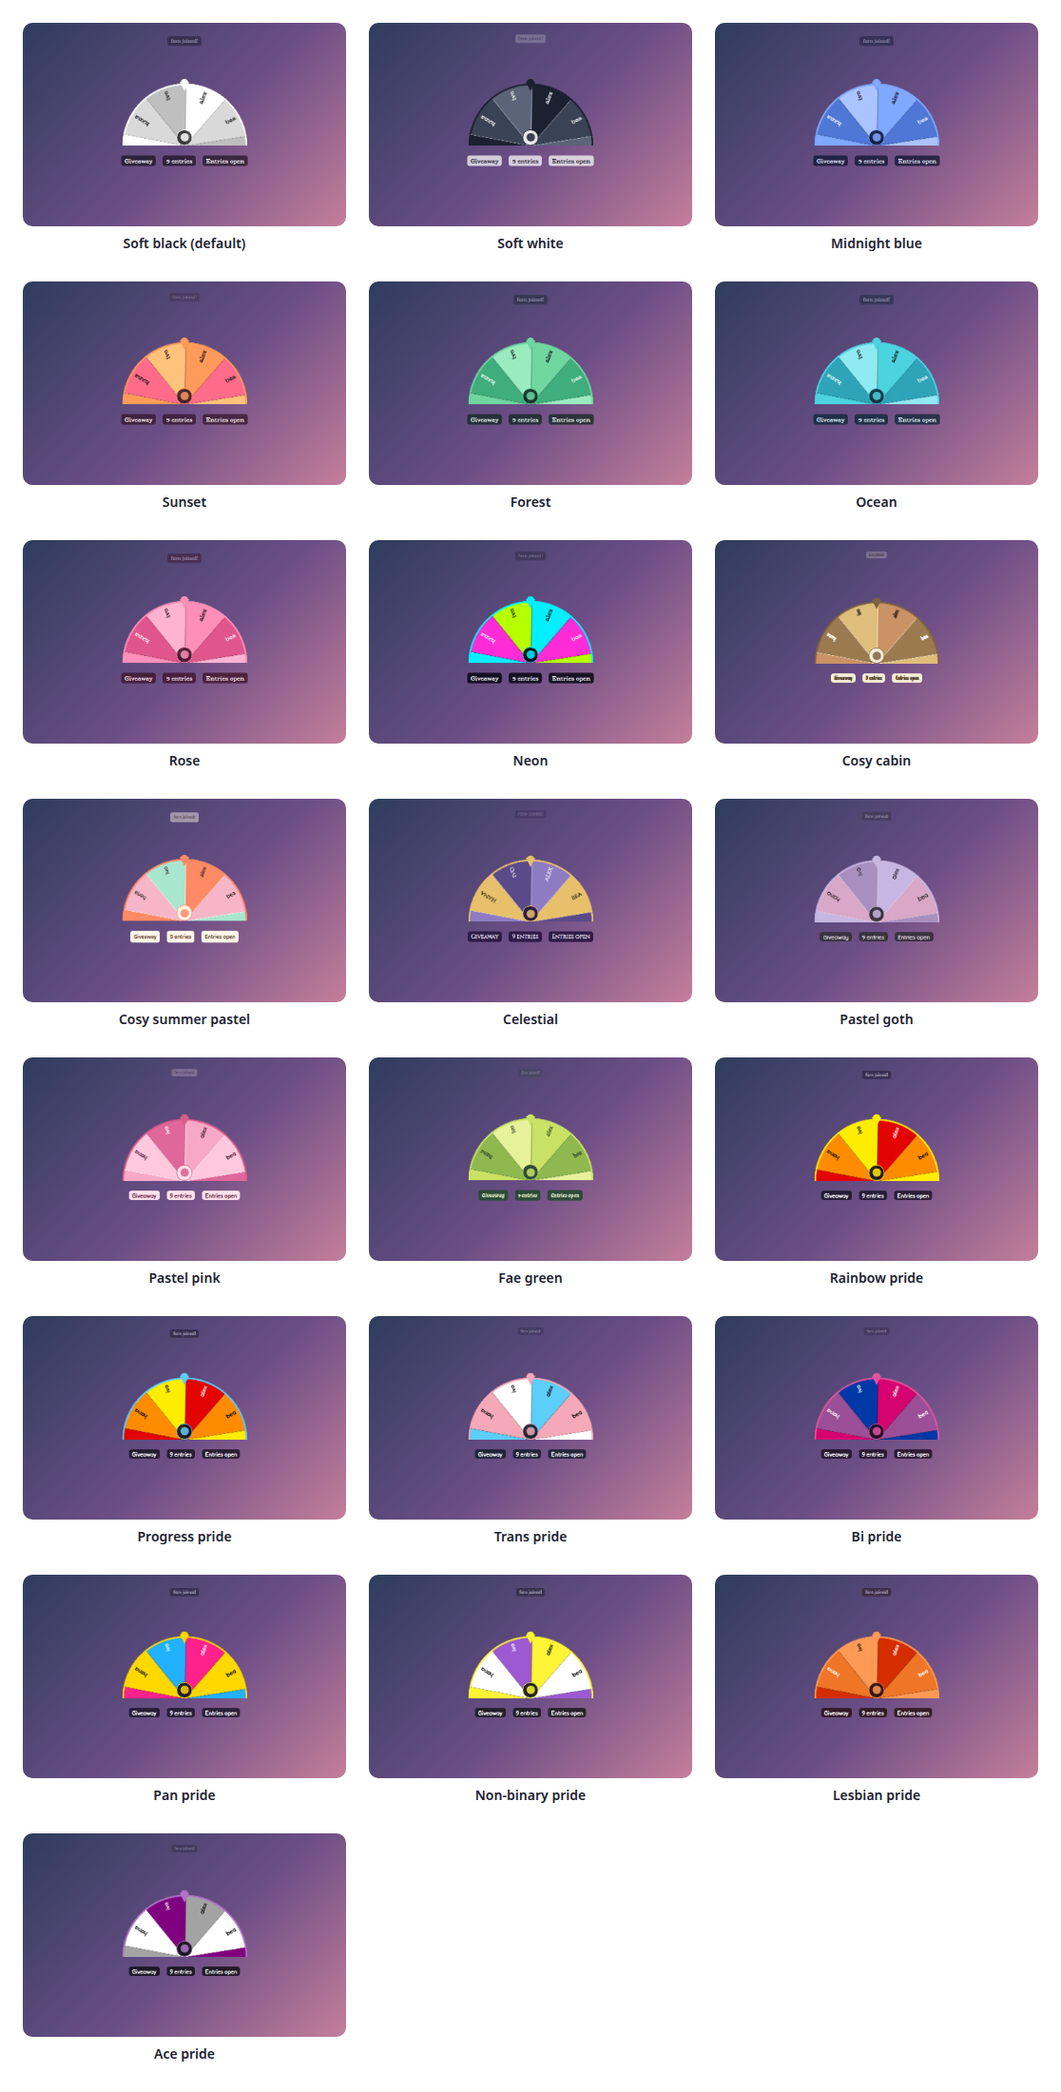
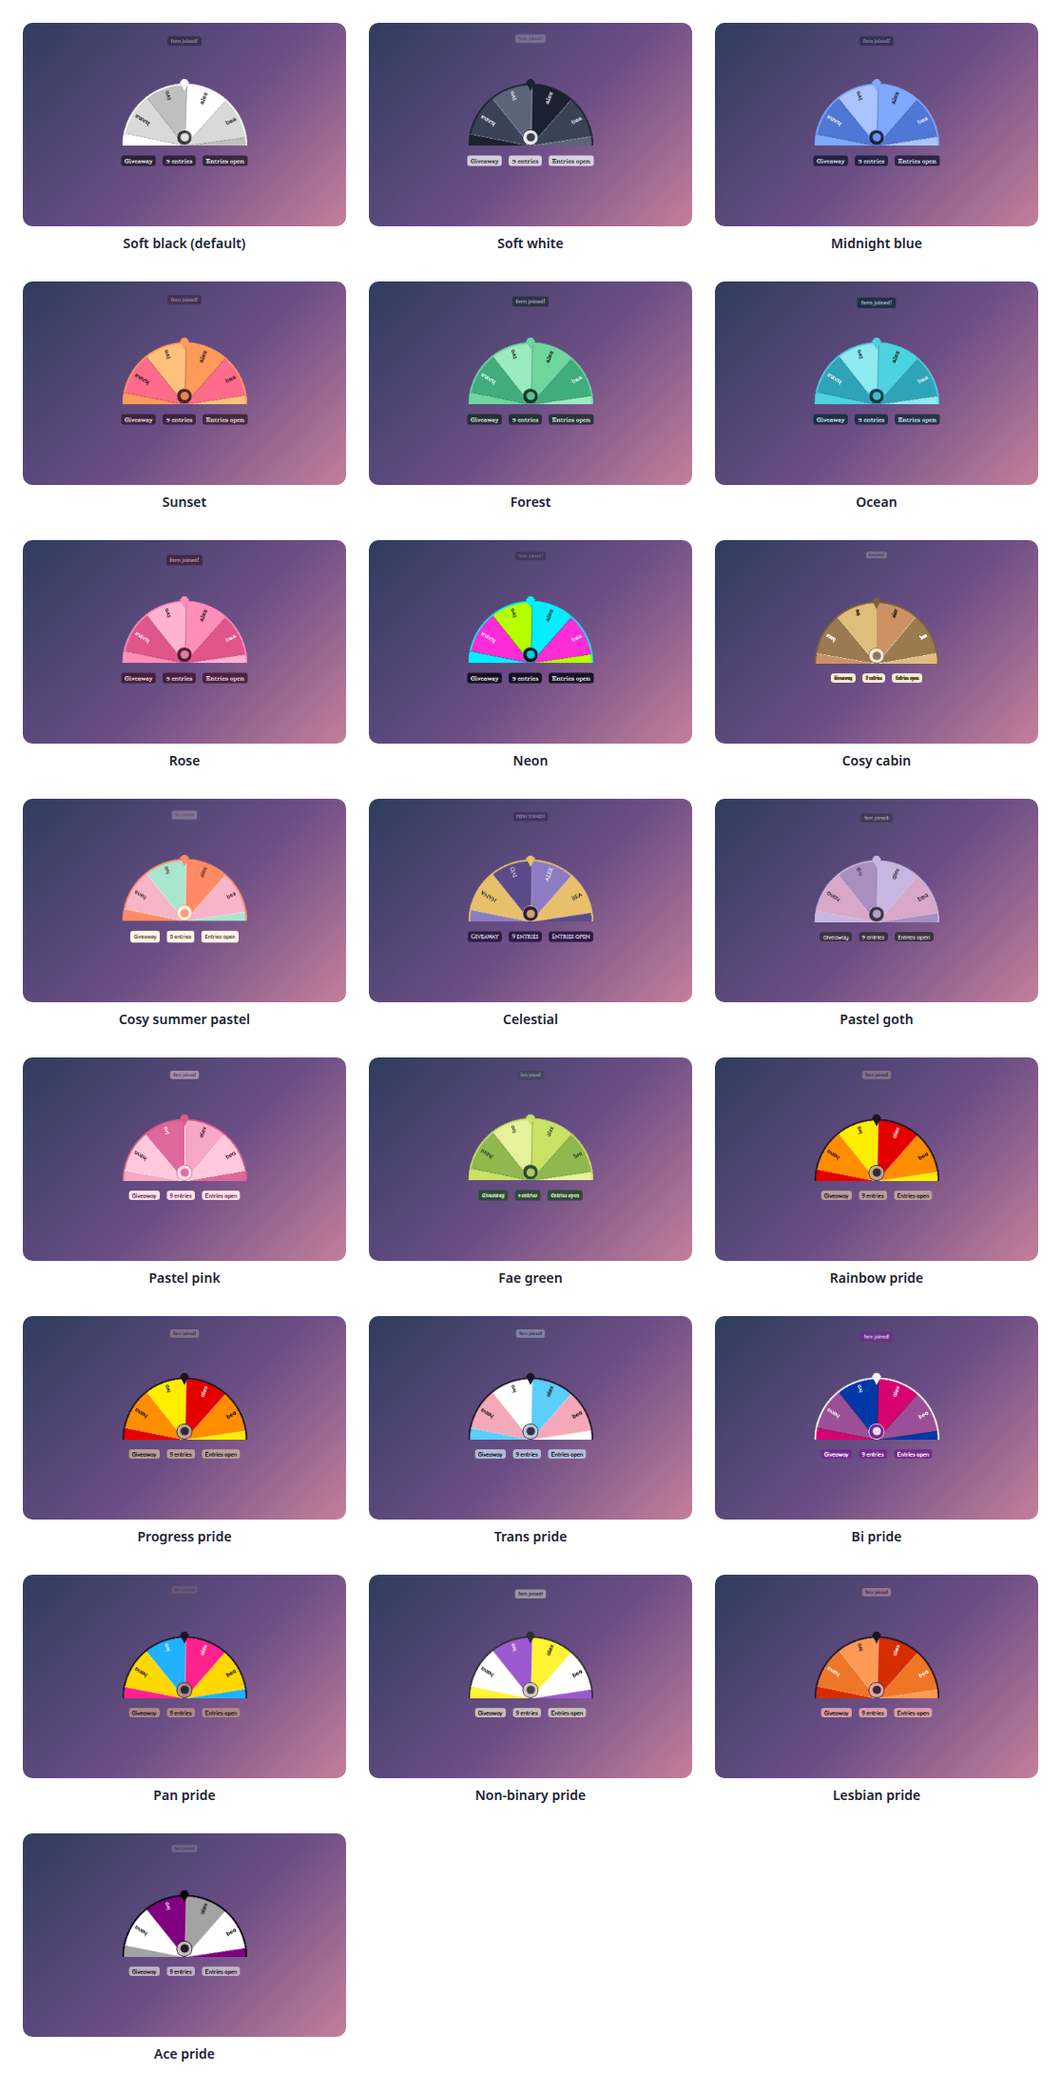
Give the pride presets flag-coloured panels
The pride presets used to be a dark card with only a thin striped bar, so the flag barely showed and the card did not match the palette. Now the card or panel itself wears the flag, as a soft gradient of its stripes, with the text kept readable.

How strong a wash goes over it is worked out, not guessed: the weakest scrim that keeps the text at a contrast of 4.6 or better against every stripe, in white or dark text as the flag needs. Trans, bi and pan need none, and a flag with a black stripe, such as ace and non-binary, gets a lighter wash. A plain colour stays as the fallback, so nothing that only understands a colour is affected, and every other preset, and Custom, is unchanged. The README gallery shows all twenty-two, and the tests check it.

diff --git a/widget/widget.js b/widget/widget.js
@@ -104,52 +104,52 @@
       parts: {"pillBg": "#2C4A36", "pill": "#EEF5DA", "toastBg": "#2C4A36", "toast": "#EEF5DA", "cardBg": "#2C4A36", "card": "#EEF5DA", "eyebrowBg": "#C9E265", "eyebrow": "#2C4A36", "idle": "#EEF5DA", "goal": "#EEF5DA", "goalTrack": "rgba(238, 245, 218, 0.2)", "goalFrom": "#8FB84E", "goalTo": "#D7EE7A", "hub": "#2C4A36", "hubRing": "#C9E265", "spent": "#E0805A", "refused": "#E0805A", "labelDark": "#1F3326", "labelLight": "#FFFFFF", "divider": "rgba(44, 74, 54, 0.45)", "border": "transparent"}
     },
     pride: {
-      bg: "rgba(20, 16, 34, 0.8)", text: "#FFFFFF", accent: "#FFEE00", pointer: "#FFEE00",
+      bg: "rgba(194, 168, 154, 0.9)", text: "#1A1426", accent: "#1A1426", pointer: "#1A1426",
       segs: ["#E50000", "#FF8D00", "#FFEE00", "#028121", "#004CFF", "#770088"],
       font: "Fredoka",
-      parts: {"pillBg": "rgba(20, 16, 34, 0.8)", "pill": "#FFFFFF", "toastBg": "rgba(20, 16, 34, 0.92)", "toast": "#FFFFFF", "cardBg": "rgba(20, 16, 34, 0.92)", "card": "#FFFFFF", "eyebrowBg": "#FFEE00", "eyebrow": "#141022", "idle": "#FFFFFF", "goal": "#FFFFFF", "goalTrack": "rgba(255, 255, 255, 0.2)", "goalFrom": "#E50000", "goalTo": "#004CFF", "hub": "rgba(20, 16, 34, 0.92)", "hubRing": "#FFEE00", "spent": "#FF5C5C", "refused": "#FF5C5C", "labelDark": "#111111", "labelLight": "#FFFFFF", "divider": "rgba(0, 0, 0, 0.3)", "border": "transparent"}
+      parts: {"pillBg": "rgba(194, 168, 154, 0.9)", "pill": "#1A1426", "toastBg": "rgba(194, 168, 154, 0.96)", "toast": "#1A1426", "cardBg": "rgba(194, 168, 154, 0.96)", "card": "#1A1426", "eyebrowBg": "#1A1426", "eyebrow": "#FFFFFF", "idle": "#1A1426", "goal": "#1A1426", "goalTrack": "rgba(26, 20, 38, 0.34)", "goalFrom": "#E50000", "goalTo": "#004CFF", "hub": "rgba(194, 168, 154, 0.96)", "hubRing": "#1A1426", "spent": "#B3123A", "refused": "#B3123A", "labelDark": "#111111", "labelLight": "#FFFFFF", "divider": "rgba(255, 255, 255, 0.45)", "border": "transparent"}
     },
     progress: {
-      bg: "rgba(22, 16, 30, 0.8)", text: "#FFFFFF", accent: "#5BCEFA", pointer: "#5BCEFA",
+      bg: "rgba(194, 168, 154, 0.9)", text: "#1A1426", accent: "#1A1426", pointer: "#1A1426",
       segs: ["#E50000", "#FF8D00", "#FFEE00", "#028121", "#004CFF", "#770088"],
       font: "Fredoka",
-      parts: {"pillBg": "rgba(22, 16, 30, 0.8)", "pill": "#FFFFFF", "toastBg": "rgba(22, 16, 30, 0.92)", "toast": "#FFFFFF", "cardBg": "rgba(22, 16, 30, 0.92)", "card": "#FFFFFF", "eyebrowBg": "#5BCEFA", "eyebrow": "#101820", "idle": "#FFFFFF", "goal": "#FFFFFF", "goalTrack": "rgba(255, 255, 255, 0.2)", "goalFrom": "#F5A9B8", "goalTo": "#5BCEFA", "hub": "rgba(22, 16, 30, 0.92)", "hubRing": "#5BCEFA", "spent": "#FF5C5C", "refused": "#FF5C5C", "labelDark": "#111111", "labelLight": "#FFFFFF", "divider": "rgba(0, 0, 0, 0.3)", "border": "transparent"}
+      parts: {"pillBg": "rgba(194, 168, 154, 0.9)", "pill": "#1A1426", "toastBg": "rgba(194, 168, 154, 0.96)", "toast": "#1A1426", "cardBg": "rgba(194, 168, 154, 0.96)", "card": "#1A1426", "eyebrowBg": "#1A1426", "eyebrow": "#FFFFFF", "idle": "#1A1426", "goal": "#1A1426", "goalTrack": "rgba(26, 20, 38, 0.34)", "goalFrom": "#F5A9B8", "goalTo": "#5BCEFA", "hub": "rgba(194, 168, 154, 0.96)", "hubRing": "#1A1426", "spent": "#B3123A", "refused": "#B3123A", "labelDark": "#111111", "labelLight": "#FFFFFF", "divider": "rgba(255, 255, 255, 0.45)", "border": "transparent"}
     },
     trans: {
-      bg: "rgba(18, 28, 44, 0.82)", text: "#FFFFFF", accent: "#F5A9B8", pointer: "#F5A9B8",
+      bg: "rgba(185, 201, 225, 0.9)", text: "#1A1426", accent: "#1A1426", pointer: "#1A1426",
       segs: ["#5BCEFA", "#F5A9B8", "#FFFFFF", "#5BCEFA", "#F5A9B8", "#FFFFFF"],
       font: "Fredoka",
-      parts: {"pillBg": "rgba(18, 28, 44, 0.82)", "pill": "#FFFFFF", "toastBg": "rgba(18, 28, 44, 0.92)", "toast": "#FFFFFF", "cardBg": "rgba(18, 28, 44, 0.92)", "card": "#FFFFFF", "eyebrowBg": "#F5A9B8", "eyebrow": "#14202E", "idle": "#FFFFFF", "goal": "#FFFFFF", "goalTrack": "rgba(255, 255, 255, 0.2)", "goalFrom": "#5BCEFA", "goalTo": "#F5A9B8", "hub": "rgba(18, 28, 44, 0.92)", "hubRing": "#F5A9B8", "spent": "#FF5C5C", "refused": "#FF5C5C", "labelDark": "#111111", "labelLight": "#FFFFFF", "divider": "rgba(0, 0, 0, 0.3)", "border": "transparent"}
+      parts: {"pillBg": "rgba(185, 201, 225, 0.9)", "pill": "#1A1426", "toastBg": "rgba(185, 201, 225, 0.96)", "toast": "#1A1426", "cardBg": "rgba(185, 201, 225, 0.96)", "card": "#1A1426", "eyebrowBg": "#1A1426", "eyebrow": "#FFFFFF", "idle": "#1A1426", "goal": "#1A1426", "goalTrack": "rgba(26, 20, 38, 0.34)", "goalFrom": "#5BCEFA", "goalTo": "#F5A9B8", "hub": "rgba(185, 201, 225, 0.96)", "hubRing": "#1A1426", "spent": "#B3123A", "refused": "#B3123A", "labelDark": "#111111", "labelLight": "#FFFFFF", "divider": "rgba(255, 255, 255, 0.45)", "border": "transparent"}
     },
     bi: {
-      bg: "rgba(30, 14, 36, 0.82)", text: "#FFFFFF", accent: "#E0559F", pointer: "#E0559F",
+      bg: "rgba(117, 39, 142, 0.9)", text: "#FFFFFF", accent: "#FFFFFF", pointer: "#FFFFFF",
       segs: ["#D60270", "#9B4F96", "#0038A8", "#D60270", "#9B4F96", "#0038A8"],
       font: "Fredoka",
-      parts: {"pillBg": "rgba(30, 14, 36, 0.82)", "pill": "#FFFFFF", "toastBg": "rgba(30, 14, 36, 0.92)", "toast": "#FFFFFF", "cardBg": "rgba(30, 14, 36, 0.92)", "card": "#FFFFFF", "eyebrowBg": "#E0559F", "eyebrow": "#1E0E24", "idle": "#FFFFFF", "goal": "#FFFFFF", "goalTrack": "rgba(255, 255, 255, 0.2)", "goalFrom": "#D60270", "goalTo": "#0038A8", "hub": "rgba(30, 14, 36, 0.92)", "hubRing": "#E0559F", "spent": "#FF5C5C", "refused": "#FF5C5C", "labelDark": "#111111", "labelLight": "#FFFFFF", "divider": "rgba(0, 0, 0, 0.3)", "border": "transparent"}
+      parts: {"pillBg": "rgba(117, 39, 142, 0.9)", "pill": "#FFFFFF", "toastBg": "rgba(117, 39, 142, 0.96)", "toast": "#FFFFFF", "cardBg": "rgba(117, 39, 142, 0.96)", "card": "#FFFFFF", "eyebrowBg": "#FFFFFF", "eyebrow": "#1A1426", "idle": "#FFFFFF", "goal": "#FFFFFF", "goalTrack": "rgba(255, 255, 255, 0.24)", "goalFrom": "#D60270", "goalTo": "#0038A8", "hub": "rgba(117, 39, 142, 0.96)", "hubRing": "#FFFFFF", "spent": "#FF6B6B", "refused": "#FF6B6B", "labelDark": "#111111", "labelLight": "#FFFFFF", "divider": "rgba(0, 0, 0, 0.3)", "border": "transparent"}
     },
     pan: {
-      bg: "rgba(24, 20, 40, 0.82)", text: "#FFFFFF", accent: "#FFD800", pointer: "#FFD800",
+      bg: "rgba(181, 142, 132, 0.9)", text: "#1A1426", accent: "#1A1426", pointer: "#1A1426",
       segs: ["#FF218C", "#FFD800", "#21B1FF", "#FF218C", "#FFD800", "#21B1FF"],
       font: "Fredoka",
-      parts: {"pillBg": "rgba(24, 20, 40, 0.82)", "pill": "#FFFFFF", "toastBg": "rgba(24, 20, 40, 0.92)", "toast": "#FFFFFF", "cardBg": "rgba(24, 20, 40, 0.92)", "card": "#FFFFFF", "eyebrowBg": "#FFD800", "eyebrow": "#181428", "idle": "#FFFFFF", "goal": "#FFFFFF", "goalTrack": "rgba(255, 255, 255, 0.2)", "goalFrom": "#FF218C", "goalTo": "#21B1FF", "hub": "rgba(24, 20, 40, 0.92)", "hubRing": "#FFD800", "spent": "#FF5C5C", "refused": "#FF5C5C", "labelDark": "#111111", "labelLight": "#FFFFFF", "divider": "rgba(0, 0, 0, 0.3)", "border": "transparent"}
+      parts: {"pillBg": "rgba(181, 142, 132, 0.9)", "pill": "#1A1426", "toastBg": "rgba(181, 142, 132, 0.96)", "toast": "#1A1426", "cardBg": "rgba(181, 142, 132, 0.96)", "card": "#1A1426", "eyebrowBg": "#1A1426", "eyebrow": "#FFFFFF", "idle": "#1A1426", "goal": "#1A1426", "goalTrack": "rgba(26, 20, 38, 0.34)", "goalFrom": "#FF218C", "goalTo": "#21B1FF", "hub": "rgba(181, 142, 132, 0.96)", "hubRing": "#1A1426", "spent": "#B3123A", "refused": "#B3123A", "labelDark": "#111111", "labelLight": "#FFFFFF", "divider": "rgba(255, 255, 255, 0.45)", "border": "transparent"}
     },
     enby: {
-      bg: "rgba(24, 24, 28, 0.86)", text: "#FFFFFF", accent: "#FFF433", pointer: "#FFF433",
+      bg: "rgba(212, 202, 192, 0.9)", text: "#1A1426", accent: "#2D2D2D", pointer: "#2D2D2D",
       segs: ["#FFF433", "#FFFFFF", "#9B59D0", "#2D2D2D", "#FFF433", "#FFFFFF"],
       font: "Fredoka",
-      parts: {"pillBg": "rgba(24, 24, 28, 0.86)", "pill": "#FFFFFF", "toastBg": "rgba(24, 24, 28, 0.94)", "toast": "#FFFFFF", "cardBg": "rgba(24, 24, 28, 0.94)", "card": "#FFFFFF", "eyebrowBg": "#FFF433", "eyebrow": "#181818", "idle": "#FFFFFF", "goal": "#FFFFFF", "goalTrack": "rgba(255, 255, 255, 0.2)", "goalFrom": "#FFF433", "goalTo": "#9B59D0", "hub": "rgba(24, 24, 28, 0.94)", "hubRing": "#FFF433", "spent": "#FF5C5C", "refused": "#FF5C5C", "labelDark": "#111111", "labelLight": "#FFFFFF", "divider": "rgba(0, 0, 0, 0.3)", "border": "transparent"}
+      parts: {"pillBg": "rgba(212, 202, 192, 0.9)", "pill": "#1A1426", "toastBg": "rgba(212, 202, 192, 0.96)", "toast": "#1A1426", "cardBg": "rgba(212, 202, 192, 0.96)", "card": "#1A1426", "eyebrowBg": "#2D2D2D", "eyebrow": "#FFFFFF", "idle": "#1A1426", "goal": "#1A1426", "goalTrack": "rgba(26, 20, 38, 0.34)", "goalFrom": "#FFF433", "goalTo": "#9B59D0", "hub": "rgba(212, 202, 192, 0.96)", "hubRing": "#2D2D2D", "spent": "#B3123A", "refused": "#B3123A", "labelDark": "#111111", "labelLight": "#FFFFFF", "divider": "rgba(255, 255, 255, 0.45)", "border": "transparent"}
     },
     lesbian: {
-      bg: "rgba(40, 16, 20, 0.82)", text: "#FFFFFF", accent: "#FF9A56", pointer: "#FF9A56",
+      bg: "rgba(232, 167, 169, 0.9)", text: "#1A1426", accent: "#1A1426", pointer: "#1A1426",
       segs: ["#D52D00", "#EF7627", "#FF9A56", "#FFFFFF", "#D162A4", "#B55690"],
       font: "Fredoka",
-      parts: {"pillBg": "rgba(40, 16, 20, 0.82)", "pill": "#FFFFFF", "toastBg": "rgba(40, 16, 20, 0.92)", "toast": "#FFFFFF", "cardBg": "rgba(40, 16, 20, 0.92)", "card": "#FFFFFF", "eyebrowBg": "#FF9A56", "eyebrow": "#2A1014", "idle": "#FFFFFF", "goal": "#FFFFFF", "goalTrack": "rgba(255, 255, 255, 0.2)", "goalFrom": "#D52D00", "goalTo": "#A30262", "hub": "rgba(40, 16, 20, 0.92)", "hubRing": "#FF9A56", "spent": "#FF5C5C", "refused": "#FF5C5C", "labelDark": "#111111", "labelLight": "#FFFFFF", "divider": "rgba(0, 0, 0, 0.3)", "border": "transparent"}
+      parts: {"pillBg": "rgba(232, 167, 169, 0.9)", "pill": "#1A1426", "toastBg": "rgba(232, 167, 169, 0.96)", "toast": "#1A1426", "cardBg": "rgba(232, 167, 169, 0.96)", "card": "#1A1426", "eyebrowBg": "#1A1426", "eyebrow": "#FFFFFF", "idle": "#1A1426", "goal": "#1A1426", "goalTrack": "rgba(26, 20, 38, 0.34)", "goalFrom": "#D52D00", "goalTo": "#A30262", "hub": "rgba(232, 167, 169, 0.96)", "hubRing": "#1A1426", "spent": "#B3123A", "refused": "#B3123A", "labelDark": "#111111", "labelLight": "#FFFFFF", "divider": "rgba(255, 255, 255, 0.45)", "border": "transparent"}
     },
     ace: {
-      bg: "rgba(16, 16, 22, 0.86)", text: "#F1F1F1", accent: "#B075C9", pointer: "#B075C9",
+      bg: "rgba(202, 187, 202, 0.9)", text: "#1A1426", accent: "#000000", pointer: "#000000",
       segs: ["#A3A3A3", "#FFFFFF", "#800080", "#000000", "#A3A3A3", "#FFFFFF"],
       font: "Fredoka",
-      parts: {"pillBg": "rgba(16, 16, 22, 0.86)", "pill": "#F1F1F1", "toastBg": "rgba(16, 16, 22, 0.94)", "toast": "#F1F1F1", "cardBg": "rgba(16, 16, 22, 0.94)", "card": "#F1F1F1", "eyebrowBg": "#B075C9", "eyebrow": "#101016", "idle": "#F1F1F1", "goal": "#F1F1F1", "goalTrack": "rgba(255, 255, 255, 0.2)", "goalFrom": "#A3A3A3", "goalTo": "#800080", "hub": "rgba(16, 16, 22, 0.94)", "hubRing": "#B075C9", "spent": "#FF5C5C", "refused": "#FF5C5C", "labelDark": "#111111", "labelLight": "#FFFFFF", "divider": "rgba(0, 0, 0, 0.3)", "border": "transparent"}
+      parts: {"pillBg": "rgba(202, 187, 202, 0.9)", "pill": "#1A1426", "toastBg": "rgba(202, 187, 202, 0.96)", "toast": "#1A1426", "cardBg": "rgba(202, 187, 202, 0.96)", "card": "#1A1426", "eyebrowBg": "#000000", "eyebrow": "#FFFFFF", "idle": "#1A1426", "goal": "#1A1426", "goalTrack": "rgba(26, 20, 38, 0.34)", "goalFrom": "#A3A3A3", "goalTo": "#800080", "hub": "rgba(202, 187, 202, 0.96)", "hubRing": "#000000", "spent": "#B3123A", "refused": "#B3123A", "labelDark": "#111111", "labelLight": "#FFFFFF", "divider": "rgba(255, 255, 255, 0.45)", "border": "transparent"}
     }
   };
   // The baseline the colour fields default to; a preset shows through only until

diff --git a/test/test-widget.js b/test/test-widget.js
@@ -491,7 +491,7 @@ function ok(cond, msg) { if (cond) { pass++; console.log("  PASS " + msg); } els
 
   // ---- style presets: the same twenty-two, with the same colours, in every overlay
   console.log("\n[style presets]");
-  const EXPECT = {"glass": {"text": "#FFFFFF", "accent": "#FFFFFF", "panel": "rgba(0, 0, 0, 0.55)", "font": "BioRhyme"}, "frost": {"text": "#1B2130", "accent": "#1B2130", "panel": "rgba(255, 255, 255, 0.72)", "font": "BioRhyme"}, "midnight": {"text": "#E8EEFF", "accent": "#7FA8FF", "panel": "rgba(10, 18, 46, 0.72)", "font": "BioRhyme"}, "sunset": {"text": "#FFF1E6", "accent": "#FF9A5A", "panel": "rgba(48, 18, 42, 0.72)", "font": "BioRhyme"}, "forest": {"text": "#EAF7EE", "accent": "#6FD6A0", "panel": "rgba(12, 36, 28, 0.72)", "font": "BioRhyme"}, "ocean": {"text": "#E6F8FF", "accent": "#4CD3E0", "panel": "rgba(6, 36, 50, 0.72)", "font": "BioRhyme"}, "rose": {"text": "#FFE9F1", "accent": "#FF8FB8", "panel": "rgba(58, 14, 34, 0.72)", "font": "BioRhyme"}, "neon": {"text": "#FFFFFF", "accent": "#00F0FF", "panel": "rgba(4, 4, 16, 0.82)", "font": "BioRhyme"}, "cosycabin": {"text": "#57442E", "accent": "#7C6142", "panel": "#F5ECD6", "font": "Chicle"}, "pastel": {"text": "#6B4F3A", "accent": "#FF8A65", "panel": "#FFF6E9", "font": "Baloo 2"}, "celestial": {"text": "#F3ECFF", "accent": "#E8C06B", "panel": "#2E1A47", "font": "Cinzel"}, "pastelgoth": {"text": "#F2E9F0", "accent": "#C8B6E2", "panel": "#3A3340", "font": "Quicksand"}, "pastelpink": {"text": "#6A2E4B", "accent": "#D95C8A", "panel": "#FFE3EC", "font": "Fredoka"}, "faegreen": {"text": "#EEF5DA", "accent": "#C9E265", "panel": "#2C4A36", "font": "Almendra"}, "pride": {"text": "#FFFFFF", "accent": "#FFEE00", "panel": "rgba(20, 16, 34, 0.8)", "font": "Fredoka"}, "progress": {"text": "#FFFFFF", "accent": "#5BCEFA", "panel": "rgba(22, 16, 30, 0.8)", "font": "Fredoka"}, "trans": {"text": "#FFFFFF", "accent": "#F5A9B8", "panel": "rgba(18, 28, 44, 0.82)", "font": "Fredoka"}, "bi": {"text": "#FFFFFF", "accent": "#E0559F", "panel": "rgba(30, 14, 36, 0.82)", "font": "Fredoka"}, "pan": {"text": "#FFFFFF", "accent": "#FFD800", "panel": "rgba(24, 20, 40, 0.82)", "font": "Fredoka"}, "enby": {"text": "#FFFFFF", "accent": "#FFF433", "panel": "rgba(24, 24, 28, 0.86)", "font": "Fredoka"}, "lesbian": {"text": "#FFFFFF", "accent": "#FF9A56", "panel": "rgba(40, 16, 20, 0.82)", "font": "Fredoka"}, "ace": {"text": "#F1F1F1", "accent": "#B075C9", "panel": "rgba(16, 16, 22, 0.86)", "font": "Fredoka"}};
+  const EXPECT = {"glass": {"text": "#FFFFFF", "accent": "#FFFFFF", "panel": "rgba(0, 0, 0, 0.55)", "font": "BioRhyme"}, "frost": {"text": "#1B2130", "accent": "#1B2130", "panel": "rgba(255, 255, 255, 0.72)", "font": "BioRhyme"}, "midnight": {"text": "#E8EEFF", "accent": "#7FA8FF", "panel": "rgba(10, 18, 46, 0.72)", "font": "BioRhyme"}, "sunset": {"text": "#FFF1E6", "accent": "#FF9A5A", "panel": "rgba(48, 18, 42, 0.72)", "font": "BioRhyme"}, "forest": {"text": "#EAF7EE", "accent": "#6FD6A0", "panel": "rgba(12, 36, 28, 0.72)", "font": "BioRhyme"}, "ocean": {"text": "#E6F8FF", "accent": "#4CD3E0", "panel": "rgba(6, 36, 50, 0.72)", "font": "BioRhyme"}, "rose": {"text": "#FFE9F1", "accent": "#FF8FB8", "panel": "rgba(58, 14, 34, 0.72)", "font": "BioRhyme"}, "neon": {"text": "#FFFFFF", "accent": "#00F0FF", "panel": "rgba(4, 4, 16, 0.82)", "font": "BioRhyme"}, "cosycabin": {"text": "#57442E", "accent": "#7C6142", "panel": "#F5ECD6", "font": "Chicle"}, "pastel": {"text": "#6B4F3A", "accent": "#FF8A65", "panel": "#FFF6E9", "font": "Baloo 2"}, "celestial": {"text": "#F3ECFF", "accent": "#E8C06B", "panel": "#2E1A47", "font": "Cinzel"}, "pastelgoth": {"text": "#F2E9F0", "accent": "#C8B6E2", "panel": "#3A3340", "font": "Quicksand"}, "pastelpink": {"text": "#6A2E4B", "accent": "#D95C8A", "panel": "#FFE3EC", "font": "Fredoka"}, "faegreen": {"text": "#EEF5DA", "accent": "#C9E265", "panel": "#2C4A36", "font": "Almendra"}, "pride": {"text": "#1A1426", "accent": "#1A1426", "panel": "rgba(194, 168, 154, 0.9)", "font": "Fredoka"}, "progress": {"text": "#1A1426", "accent": "#1A1426", "panel": "rgba(194, 168, 154, 0.9)", "font": "Fredoka"}, "trans": {"text": "#1A1426", "accent": "#1A1426", "panel": "rgba(185, 201, 225, 0.9)", "font": "Fredoka"}, "bi": {"text": "#FFFFFF", "accent": "#FFFFFF", "panel": "rgba(117, 39, 142, 0.9)", "font": "Fredoka"}, "pan": {"text": "#1A1426", "accent": "#1A1426", "panel": "rgba(181, 142, 132, 0.9)", "font": "Fredoka"}, "enby": {"text": "#1A1426", "accent": "#2D2D2D", "panel": "rgba(212, 202, 192, 0.9)", "font": "Fredoka"}, "lesbian": {"text": "#1A1426", "accent": "#1A1426", "panel": "rgba(232, 167, 169, 0.9)", "font": "Fredoka"}, "ace": {"text": "#1A1426", "accent": "#000000", "panel": "rgba(202, 187, 202, 0.9)", "font": "Fredoka"}};
   const LABELS = {"glass": "Soft black (default)", "frost": "Soft white", "midnight": "Midnight blue", "sunset": "Sunset", "forest": "Forest", "ocean": "Ocean", "rose": "Rose", "neon": "Neon", "cosycabin": "Cosy cabin", "pastel": "Cosy summer pastel", "celestial": "Celestial", "pastelgoth": "Pastel goth", "pastelpink": "Pastel pink", "faegreen": "Fae green", "pride": "Rainbow pride", "progress": "Progress pride", "trans": "Trans pride", "bi": "Bi pride", "pan": "Pan pride", "enby": "Non-binary pride", "lesbian": "Lesbian pride", "ace": "Ace pride", "custom": "Custom (use the colours below)"};
   ok(JSON.stringify(Object.keys(fields.themePreset.options)) === JSON.stringify(Object.keys(LABELS)) && Object.keys(LABELS).length === 23, "the dropdown offers the twenty-two shared presets and Custom, in the shared order");
   ok(Object.keys(LABELS).every(k => fields.themePreset.options[k] === LABELS[k]), "with the shared labels");

diff --git a/README.md b/README.md
@@ -55,16 +55,16 @@ One setting picks the look. The same twenty-two presets, with the same colours, 
 | Pastel goth | Charcoal and lilac, in Quicksand. |
 | Pastel pink | Soft blush pink with rose, in Fredoka. |
 | Fae green | Mossy green with a firefly lime accent, in Almendra. |
-| Rainbow pride | Dark plum with the six rainbow stripes, in Fredoka. |
-| Progress pride | The six rainbow stripes with the chevron's pink and light blue. |
-| Trans pride | Dark blue with light blue, pink and white. |
-| Bi pride | Dark violet with magenta, purple and blue. |
-| Pan pride | Dark indigo with pink, yellow and light blue. |
-| Non-binary pride | Charcoal with yellow, white, purple and black. |
-| Lesbian pride | Dark wine with the orange to pink stripes. |
-| Ace pride | Near black with grey, white and purple. |
+| Rainbow pride | A soft wash of the six rainbow stripes, in Fredoka. |
+| Progress pride | The same stripes, with the chevron's pink and light blue in the wheel and poll colours. |
+| Trans pride | Light blue, pink and white. |
+| Bi pride | Magenta, purple and blue, with white text. |
+| Pan pride | Pink, yellow and light blue. |
+| Non-binary pride | Yellow, white, purple and black, softened so the text stays readable. |
+| Lesbian pride | The orange to pink stripes. |
+| Ace pride | Black, grey, white and purple, softened so the text stays readable. |
 
-The last eight are pride presets, built from the stripes of the rainbow, progress, trans, bi, pan, non-binary, lesbian and ace flags. A bar is striped like the flag where an overlay has one, and the slices of a wheel and the options of a poll take their colours from the stripes in order. The colours follow each flag's published design, and the progress flag shows its six rainbow stripes, because its chevron is a separate shape.
+The last eight are pride presets, built from the stripes of the rainbow, progress, trans, bi, pan, non-binary, lesbian and ace flags. The card or panel wears the flag as its background, with only as much of a wash over it as the text needs to stay readable, so flags with a black stripe come out softer. A bar is striped like the flag where an overlay has one, and the slices of a wheel and the options of a poll take their colours from the stripes in order. The colours follow each flag's published design, and the progress flag shows its six rainbow stripes, because its chevron is a separate shape.
 
 Choose **Custom** to use the colour pickers and font instead. They are ignored while a preset is chosen.
 
